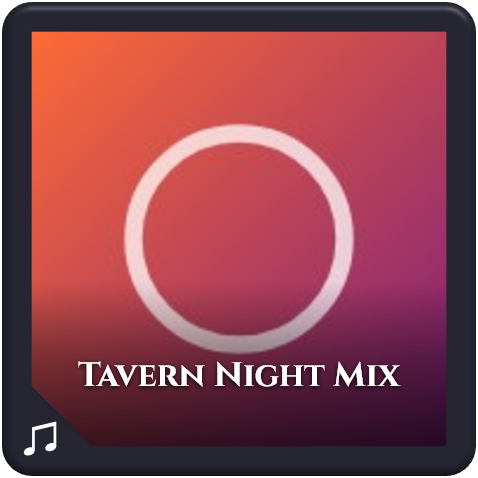
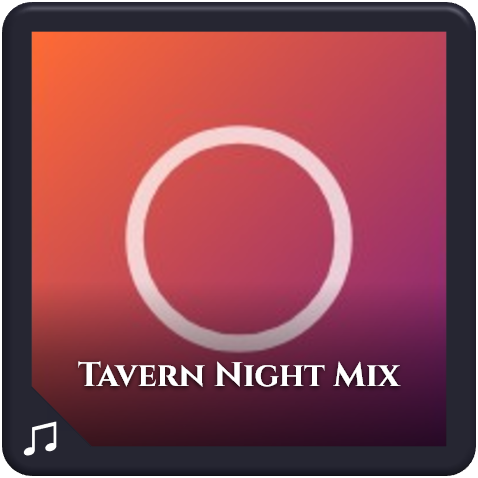
fix: render mosaics as prepared art and keep bright borders
- A composed mosaic is prepared art (ChipArtFetch.IsPrepared): BuildFrontAsync
  and RenderFront(..., artIsPrepared: true) skip bar detection, so dark edges
  of separate covers aren't trimmed as one letterbox. The App caches the whole
  ChipArtFetch so previews and builds keep the flag.
- The fringe beyond a trimmed bar is dropped only where lines are near-dark
  (<= 64), up to 2 px; a bright band beside a thin black frame survives.
- Regression tests from the PR #36 review probes; samples re-rendered.

diff --git a/tests/TTSMixmaster.Core.Tests/Imaging/ChipArtRegressionTests.cs b/tests/TTSMixmaster.Core.Tests/Imaging/ChipArtRegressionTests.cs
@@ -1,0 +1,185 @@
+using System.Diagnostics;
+using System.Net;
+using SkiaSharp;
+using TTSMixmaster.Core.Imaging;
+using TTSMixmaster.Core.Models;
+using static TTSMixmaster.Core.Tests.Imaging.ChipTestImages;
+
+namespace TTSMixmaster.Core.Tests.Imaging;
+
+/// <summary>
+/// Review findings on the mosaic (PR #36): one deadline for the whole fetch, no second bar detection on a composed
+/// mosaic, and no fringe crop of bright lossless borders.
+/// </summary>
+[TestClass]
+public sealed class ChipArtRegressionTests
+{
+    private static readonly ChipOptions NoTitle = new() { ShowTitle = false };
+    private static readonly SKColor[] Colors = [SKColors.Red, SKColors.Lime, SKColors.Blue, SKColors.Yellow];
+
+    /// <summary>Serves <c>https://img.example/{i}.png</c> from <paramref name="art"/>; null hangs until cancelled.</summary>
+    private sealed class HangingServer(Func<int, byte[]?> art) : HttpMessageHandler
+    {
+        private int _active;
+        public int Requests;
+        public int Peak;
+
+        protected override async Task<HttpResponseMessage> SendAsync(HttpRequestMessage request, CancellationToken ct)
+        {
+            Interlocked.Increment(ref Requests);
+            var active = Interlocked.Increment(ref _active);
+            InterlockedMax(ref Peak, active);
+            try
+            {
+                var index = int.Parse(Path.GetFileNameWithoutExtension(request.RequestUri!.AbsolutePath), System.Globalization.CultureInfo.InvariantCulture);
+                var bytes = index >= 0 ? art(index) : null;
+                if (bytes is null) await Task.Delay(Timeout.Infinite, ct);
+                return new HttpResponseMessage(HttpStatusCode.OK) { Content = new ByteArrayContent(bytes!) };
+            }
+            finally { Interlocked.Decrement(ref _active); }
+        }
+
+        private static void InterlockedMax(ref int target, int value)
+        {
+            int seen;
+            while (value > (seen = Volatile.Read(ref target)) && Interlocked.CompareExchange(ref target, value, seen) != seen) { }
+        }
+    }
+
+    private static MusicCollection Collection(int covers, string thumbnail = "") => new()
+    {
+        Summary = new() { Id = "c", Name = "Mix", Service = ServiceKind.YouTube, Kind = CollectionKind.Playlist, ThumbnailUrl = thumbnail },
+        Tracks = [.. Enumerable.Range(0, covers).Select(i => new Track { Title = $"T{i}", Artist = "A", ThumbnailUrl = $"https://img.example/{i}.png" })],
+    };
+
+    [TestMethod]
+    public async Task Stalled_replacement_covers_share_one_deadline_and_what_loaded_is_used()
+    {
+        // Three covers load at once; the other nine stall. Per-request timeouts let nine replacements wait in turn.
+        var timeout = TimeSpan.FromMilliseconds(300);
+        var server = new HangingServer(i => i < 3 ? Solid(64, 64, Colors[i]) : null);
+        var clock = Stopwatch.StartNew();
+
+        var fetch = await new ChipImageBuilder(new HttpClient(server), timeout).FetchArtAsync(Collection(12));
+
+        Assert.IsLessThan(timeout * 3, clock.Elapsed, "one deadline, not one per replacement");
+        Assert.AreEqual(ChipArtSource.Track, fetch.Source, "fewer than four covers loaded: the first alone");
+        AssertClose(Colors[0], Decode(fetch.Art!).GetPixel(10, 10));
+        Assert.IsFalse(fetch.TimedOut, "art was found");
+        Assert.AreEqual(4, server.Requests, "no replacement starts after the deadline");
+        Assert.IsLessThanOrEqualTo(4, server.Peak);
+    }
+
+    [TestMethod]
+    public async Task The_deadline_covers_own_art_too_and_ends_in_the_generated_background()
+    {
+        var server = new HangingServer(i => Solid(64, 64, Colors[i % 4]));
+        var clock = Stopwatch.StartNew();
+
+        var fetch = await new ChipImageBuilder(new HttpClient(server), TimeSpan.FromMilliseconds(300))
+            .FetchArtAsync(Collection(4, "https://img.example/-1.png"));
+
+        Assert.IsLessThan(TimeSpan.FromSeconds(1), clock.Elapsed);
+        Assert.IsNull(fetch.Art);
+        Assert.IsTrue(fetch.TimedOut);
+        Assert.AreEqual(1, server.Requests, "no cover is started once the fetch's deadline has passed");
+    }
+
+    [TestMethod]
+    public async Task Caller_cancellation_still_throws_and_leaves_no_request_running()
+    {
+        var server = new HangingServer(_ => null);
+        using var cts = new CancellationTokenSource(TimeSpan.FromMilliseconds(100));
+
+        await Assert.ThrowsAsync<OperationCanceledException>(() =>
+            new ChipImageBuilder(new HttpClient(server)).FetchArtAsync(Collection(12), cts.Token));
+        Assert.AreEqual(4, server.Requests);
+    }
+
+    /// <summary>A square cover with dark artwork along one edge: the top of covers 0–1, the bottom of covers 2–3.</summary>
+    private static byte[] HalfDark(int index) => Png(512, 512, c =>
+    {
+        c.Clear(Colors[index]);
+        using var black = new SKPaint { Color = SKColors.Black };
+        c.DrawRect(0, index < 2 ? 0 : 352, 512, 160, black);
+    });
+
+    [TestMethod]
+    public async Task A_composed_mosaic_is_not_trimmed_again_when_rendered()
+    {
+        // Each cover keeps its dark edge; composed, the dark top and bottom rows line up like a letterbox.
+        var server = new HangingServer(i => i < 4 ? HalfDark(i) : null);
+        var builder = new ChipImageBuilder(new HttpClient(server));
+
+        var fetch = await builder.FetchArtAsync(Collection(4));
+        Assert.AreEqual(ChipArtSource.Mosaic, fetch.Source);
+        Assert.IsTrue(fetch.IsPrepared);
+
+        // The App's cached-art path: RenderFront with the prepared flag.
+        using var cached = Decode(ChipImageBuilder.RenderFront(fetch.Art, "", ServiceKind.YouTube, NoTitle, fetch.IsPrepared).Png);
+        // BuildFrontAsync carries the flag itself.
+        using var built = Decode((await builder.BuildFrontAsync(Collection(4), NoTitle)).Png);
+        foreach (var output in new[] { cached, built })
+        {
+            AssertClose(SKColors.Black, output.GetPixel(180, 60), where: "dark artwork along the top of cover 0");
+            AssertClose(Colors[0], output.GetPixel(180, 200), where: "cover 0 below its dark strip");
+            AssertClose(SKColors.Black, output.GetPixel(300, 420), where: "dark artwork along the bottom of cover 3");
+        }
+    }
+
+    [TestMethod]
+    public void Plain_art_is_still_trimmed_when_rendered()
+    {
+        Assert.IsFalse(new ChipArtFetch([1], false, ChipArtSource.Track).IsPrepared);
+        Assert.IsFalse(new ChipArtFetch([1], false, ChipArtSource.Collection).IsPrepared);
+    }
+
+    [TestMethod]
+    public void A_bright_border_beside_a_thin_black_frame_survives_trimming()
+    {
+        // Lossless art: a 1 px black frame, a 2 px red band, a green interior. Only the black frame is a bar.
+        using var art = new SKBitmap(64, 64);
+        art.Erase(SKColors.Black);
+        using (var canvas = new SKCanvas(art))
+        {
+            using var red = new SKPaint { Color = SKColors.Red };
+            using var green = new SKPaint { Color = SKColors.Lime };
+            canvas.DrawRect(1, 1, 62, 62, red);
+            canvas.DrawRect(3, 3, 58, 58, green);
+        }
+        Assert.AreEqual(new SKRectI(1, 1, 63, 63), ChipArt.ContentBounds(art));
+
+        using var png = art.Encode(SKEncodedImageFormat.Png, 100);
+        using var output = Decode(ChipImageBuilder.RenderFront(png.ToArray(), "", null, NoTitle).Png);
+        AssertClose(SKColors.Red, output.GetPixel(36, 239), tolerance: 40, where: "the red band at the window's left edge");
+    }
+
+    [TestMethod]
+    public void A_jpeg_ringing_fringe_beside_trimmed_bars_is_dropped()
+    {
+        // 4:3 thumbnail of a 16:9 video with square art: JPEG leaves a dark-red line at the bars' edges.
+        var jpeg = Encode(Png(480, 360, c =>
+        {
+            c.Clear(SKColors.Black);
+            using var orange = new SKPaint { Color = new SKColor(0xF0, 0x95, 0x5C) };
+            c.DrawRect(SKRect.Create(105, 45, 270, 270), orange);
+        }), SKEncodedImageFormat.Jpeg);
+        using var art = ChipArt.Decode(jpeg)!;
+
+        var bounds = ChipArt.ContentBounds(art);
+
+        foreach (var (x, y) in new[] { (bounds.Left, 180), (bounds.Right - 1, 180), (240, bounds.Top), (240, bounds.Bottom - 1) })
+        {
+            var c = art.GetPixel(x, y);
+            Assert.IsGreaterThan(150, Math.Max(c.Red, Math.Max(c.Green, c.Blue)), $"edge pixel ({x},{y}) of {bounds} is picture, not fringe: {c}");
+        }
+        Assert.IsLessThanOrEqualTo(4, bounds.Left - 105 + (375 - bounds.Right), "no more than the fringe is dropped");
+    }
+
+    private static byte[] Encode(byte[] png, SKEncodedImageFormat format)
+    {
+        using var bitmap = SKBitmap.Decode(png);
+        using var data = bitmap.Encode(format, 90);
+        return data.ToArray();
+    }
+}

diff --git a/src/TTSMixmaster.Core/Imaging/ChipArt.cs b/src/TTSMixmaster.Core/Imaging/ChipArt.cs
@@ -73,24 +73,43 @@ internal static class ChipArt
     internal static SKRectI ContentBounds(SKBitmap bitmap)
     {
         int w = bitmap.Width, h = bitmap.Height;
-        var top = CountBars(h, i => IsBlackLine(bitmap, i, horizontal: true));
-        var bottom = CountBars(h, i => IsBlackLine(bitmap, h - 1 - i, horizontal: true));
-        var left = CountBars(w, i => IsBlackLine(bitmap, i, horizontal: false));
-        var right = CountBars(w, i => IsBlackLine(bitmap, w - 1 - i, horizontal: false));
+        var top = CountBars(h, i => IsDarkLine(bitmap, i, horizontal: true, BarLevel));
+        var bottom = CountBars(h, i => IsDarkLine(bitmap, h - 1 - i, horizontal: true, BarLevel));
+        var left = CountBars(w, i => IsDarkLine(bitmap, i, horizontal: false, BarLevel));
+        var right = CountBars(w, i => IsDarkLine(bitmap, w - 1 - i, horizontal: false, BarLevel));
 
         // Only trim matched pairs of bars that leave a substantial picture; a dark sky is not a letterbox.
         var trimRows = top > 0 && bottom > 0 && Math.Abs(top - bottom) <= h / 50 + 2 && h - top - bottom >= h * 2 / 5;
         var trimCols = left > 0 && right > 0 && Math.Abs(left - right) <= w / 50 + 2 && w - left - right >= w * 2 / 5;
-        // JPEG ringing leaves a dark fringe line or two where a bar meets the picture, just too bright to count as bar;
-        // a trimmed side also drops that fringe.
-        int rowFringe = Fringe(h), colFringe = Fringe(w);
-        return new SKRectI(
-            trimCols ? left + colFringe : 0, trimRows ? top + rowFringe : 0,
-            trimCols ? w - right - colFringe : w, trimRows ? h - bottom - rowFringe : h);
+        if (trimRows)
+        {
+            top += Fringe(h, top, i => IsDarkLine(bitmap, i, horizontal: true, FringeLevel));
+            bottom += Fringe(h, bottom, i => IsDarkLine(bitmap, h - 1 - i, horizontal: true, FringeLevel));
+        }
+        if (trimCols)
+        {
+            left += Fringe(w, left, i => IsDarkLine(bitmap, i, horizontal: false, FringeLevel));
+            right += Fringe(w, right, i => IsDarkLine(bitmap, w - 1 - i, horizontal: false, FringeLevel));
+        }
+        return new SKRectI(trimCols ? left : 0, trimRows ? top : 0, trimCols ? w - right : w, trimRows ? h - bottom : h);
     }
 
-    /// <summary>Lines dropped beyond a trimmed bar: 2 px, or ~0.4% of the side on large art.</summary>
-    private static int Fringe(int length) => Math.Max(2, length / 256);
+    /// <summary>Brightest channel a JPEG-ringing fringe line may have (a bar line may have <see cref="BarLevel"/>).</summary>
+    private const int FringeLevel = 64;
+    private const int BarLevel = 24;
+
+    /// <summary>
+    /// JPEG ringing leaves a dark line or two where a bar meets the picture, just too bright to count as bar. Beyond a
+    /// trimmed bar of <paramref name="bar"/> lines, this many more lines are such near-dark fringe: at most 2 px (or
+    /// ~0.4% of the side on large art), and only lines that really are near-dark, so a bright border survives.
+    /// </summary>
+    private static int Fringe(int length, int bar, Func<int, bool> isFringe)
+    {
+        var limit = Math.Max(2, length / 256);
+        var count = 0;
+        while (count < limit && bar + count < length / 2 && isFringe(bar + count)) count++;
+        return count;
+    }
 
     /// <summary>The centred crop of <paramref name="source"/> with the aspect ratio of <paramref name="target"/>.</summary>
     internal static SKRect CoverCrop(SKRect source, SKRect target)
@@ -108,10 +127,13 @@ internal static class ChipArt
         return new SKRect(source.Left, y, source.Right, y + height);
     }
 
-    /// <summary>Draws the art cover-fitted (centre-cropped) into <paramref name="target"/>.</summary>
-    internal static void DrawCover(SKCanvas canvas, SKBitmap art, SKRect target)
+    /// <summary>
+    /// Draws the art cover-fitted (centre-cropped) into <paramref name="target"/>, first trimming letterbox bars unless
+    /// <paramref name="trimBars"/> is false (art that is already trimmed and fitted, such as a mosaic).
+    /// </summary>
+    internal static void DrawCover(SKCanvas canvas, SKBitmap art, SKRect target, bool trimBars = true)
     {
-        var content = ContentBounds(art);
+        var content = trimBars ? ContentBounds(art) : SKRectI.Create(art.Width, art.Height);
         using var whole = SKImage.FromBitmap(art);
         // Trimmed bars are cut off as a subset, so filtering and mipmaps at the crop's edge can't blend them back in
         // (a dark seam between mosaic tiles).
@@ -175,7 +197,7 @@ internal static class ChipArt
         return count;
     }
 
-    private static bool IsBlackLine(SKBitmap bitmap, int index, bool horizontal)
+    private static bool IsDarkLine(SKBitmap bitmap, int index, bool horizontal, int level)
     {
         var length = horizontal ? bitmap.Width : bitmap.Height;
         var samples = Math.Min(length, 64);
@@ -184,7 +206,7 @@ internal static class ChipArt
         {
             var along = (int)((s + 0.5) * length / samples);
             var c = horizontal ? bitmap.GetPixel(along, index) : bitmap.GetPixel(index, along);
-            if (Math.Max(c.Red, Math.Max(c.Green, c.Blue)) <= 24) dark++;
+            if (Math.Max(c.Red, Math.Max(c.Green, c.Blue)) <= level) dark++;
         }
         return dark >= samples * 0.97;
     }

diff --git a/src/TTSMixmaster.App/ViewModels/CollectionViewModel.cs b/src/TTSMixmaster.App/ViewModels/CollectionViewModel.cs
@@ -61,7 +61,7 @@ public sealed partial class CollectionViewModel : ObservableObject
     private readonly CollectionRequest _request;
     private MusicCollection? _collection;
     private Task? _loadTask;
-    private byte[]? _art;            // the collection's own art, fetched once for previews and builds
+    private ChipArtFetch? _art;      // the collection's art (and whether it is a prepared mosaic), fetched once for previews and builds
     private byte[]? _customArt;      // the user's image, read once per choice
     private int _previewVersion;
 
@@ -242,16 +242,19 @@ public sealed partial class CollectionViewModel : ObservableObject
     /// </summary>
     private async Task<ChipImage> RenderChipAsync(CancellationToken ct)
     {
-        var art = HasCustomChipImage ? await ReadCustomArtAsync() : null;
-        art ??= _art ??= await FetchCollectionArtAsync(ct);
+        var custom = HasCustomChipImage ? await ReadCustomArtAsync() : null;
+        // A custom image is plain art (bars trimmed when rendering); the collection's may be a prepared mosaic.
+        var fetched = custom is null ? _art ??= await FetchCollectionArtAsync(ct) : null;
+        var art = custom ?? fetched?.Art;
+        var prepared = custom is null && fetched is { IsPrepared: true };
         var title = ChipTitle;
         var options = new ChipOptions { ShowTitle = ShowTitleOnChip };
         var service = _collection!.Summary.Service;
-        return await Task.Run(() => ChipImageBuilder.RenderFront(art, title, service, options), ct);
+        return await Task.Run(() => ChipImageBuilder.RenderFront(art, title, service, options, prepared), ct);
     }
 
-    /// <summary>The collection's own art. A timed-out download isn't remembered, so the next render tries again.</summary>
-    private async Task<byte[]?> FetchCollectionArtAsync(CancellationToken ct)
+    /// <summary>The collection's art. A timed-out download isn't remembered (null), so the next render tries again.</summary>
+    private async Task<ChipArtFetch?> FetchCollectionArtAsync(CancellationToken ct)
     {
         var fetch = await _app.Chips.FetchArtAsync(_collection!, ct);
         if (fetch.TimedOut)
@@ -260,7 +263,7 @@ public sealed partial class CollectionViewModel : ObservableObject
             ChipImageError = fetch.TimedOut
                 ? "The artwork took too long to download, so a generated background is shown. It's tried again next time."
                 : "";
-        return fetch.Art;
+        return fetch.Art is null ? null : fetch;
     }
 
     private async Task<byte[]?> ReadCustomArtAsync()

diff --git a/src/TTSMixmaster.Core/Imaging/ChipModels.cs b/src/TTSMixmaster.Core/Imaging/ChipModels.cs
@@ -40,7 +40,14 @@ public enum ChipArtSource
 /// they came from, or null with whether a download timed out (so the caller can say so and retry later rather than
 /// remember "no art").
 /// </summary>
-public sealed record ChipArtFetch(byte[]? Art, bool TimedOut, ChipArtSource Source = ChipArtSource.Generated);
+public sealed record ChipArtFetch(byte[]? Art, bool TimedOut, ChipArtSource Source = ChipArtSource.Generated)
+{
+    /// <summary>
+    /// True when <see cref="Art"/> is already trimmed and fitted (a composed mosaic): render it with
+    /// <c>ChipImageBuilder.RenderFront(…, artIsPrepared: true)</c>, which skips letterbox detection.
+    /// </summary>
+    public bool IsPrepared => Source == ChipArtSource.Mosaic;
+}
 
 /// <summary>A rendered chip face: PNG bytes and their SHA-256, which doubles as a content-addressed blob name.</summary>
 public sealed record ChipImage(byte[] Png, string Hash, int Width, int Height, ChipArtSource ArtSource)

diff --git a/tests/TTSMixmaster.Core.Tests/Imaging/ChipImageBuilderTests.cs b/tests/TTSMixmaster.Core.Tests/Imaging/ChipImageBuilderTests.cs
@@ -109,7 +109,7 @@ public sealed class ChipImageBuilderTests
             c.DrawRect(SKRect.Create(0, 45, 480, 270), orange);
         });
         using (var bitmap = ChipArt.Decode(png)!)
-            Assert.AreEqual(new SKRectI(0, 47, 480, 313), ChipArt.ContentBounds(bitmap)); // bars plus a 2 px JPEG-fringe margin
+            Assert.AreEqual(new SKRectI(0, 45, 480, 315), ChipArt.ContentBounds(bitmap));
 
         using var output = Decode(ChipImageBuilder.RenderFront(png, "", null, NoTitle).Png);
         AssertClose(SKColors.Orange, output.GetPixel(239, 34), where: "window top");

diff --git a/src/TTSMixmaster.Core/Imaging/README.md b/src/TTSMixmaster.Core/Imaging/README.md
@@ -16,7 +16,7 @@ ChipImage back  = ChipImageBuilder.BackImage;   // the original chip back, uncha
 ## Pipeline
 
 1. **Art.** `FetchArtAsync` picks it, downloading with the injected `HttpClient` (https only, at most 20 MB
-   each, within the art timeout):
+   each; the whole fetch shares one deadline, the art timeout of 30 s):
    - the collection's own art: `CollectionSummary.ThumbnailUrl` when `ArtKind` is `Own`;
    - otherwise (no URL, a YouTube `ServiceDefault` stand-in, or the download failed) a **mosaic**, as YouTube
      Music and Spotify show playlists: the first four *distinct* track covers in track order, 2x2 (top-left,
@@ -26,15 +26,20 @@ ChipImage back  = ChipImageBuilder.BackImage;   // the original chip back, uncha
      covers the first is used alone, as YouTube Music appears to do (it documents no rule);
    - then the `ServiceDefault` thumbnail itself, then a generated background.
 
-   A failed download, an error status, a timeout or bytes that don't decode all move on to the next candidate.
-   Only cancellation of the caller's token throws. The result depends on which downloads succeed, never on their
-   timing, so the same inputs render the same PNG. The App's "Use custom image…" replaces all of this.
+   A failed download, an error status or bytes that don't decode all move on to the next candidate. When the
+   deadline passes, no further download starts: covers that already loaded are used (the first alone if fewer than
+   four), else the generated background, and the result says it timed out. Only cancellation of the caller's token
+   throws. The result depends on which downloads succeed, never on their timing, so the same inputs render the
+   same PNG. A mosaic is *prepared* art (`ChipArtFetch.IsPrepared`): render it with
+   `RenderFront(…, artIsPrepared: true)`, which skips step 2's bar detection, because the dark edges of separate
+   covers can line up like a letterbox. The App's "Use custom image…" replaces all of this.
 2. **Window.** The art is cover-fitted (centre-cropped) into the window. Symmetric near-black letterbox or
    pillarbox bars are trimmed first: YouTube's 4:3 thumbnails of 16:9 videos, and the bars beside square album art
    in a 16:9 music video thumbnail, so a YouTube track shows its square cover. Only matched, near-uniform dark bars
-   are trimmed (plus a 2 px, or ~0.4%, fringe where JPEG ringing leaves a dark line at the bar's edge); otherwise
+   are trimmed (plus up to 2 px, or ~0.4%, of near-dark fringe where JPEG ringing leaves a dark line at the bar's
+   edge; a bright border survives); otherwise
    the centre square is used, never more. Trimmed bars are cut off as an image subset, so filtering can't blend them
-   back in at the crop edge. Mosaic tiles are fitted the same way. Small art is upscaled with a
+   back in at the crop edge. Mosaic tiles are fitted the same way, once. Small art is upscaled with a
    Mitchell cubic; large art is downscaled with mipmaps. With no art, a dark service-tinted gradient with
    a faint record is drawn (Spotify green, YouTube red, Last.fm crimson, slate otherwise); never the crest.
 3. **Frame.** `Assets/Chip/frame.png` is drawn on top, pixel for pixel at 1x.
